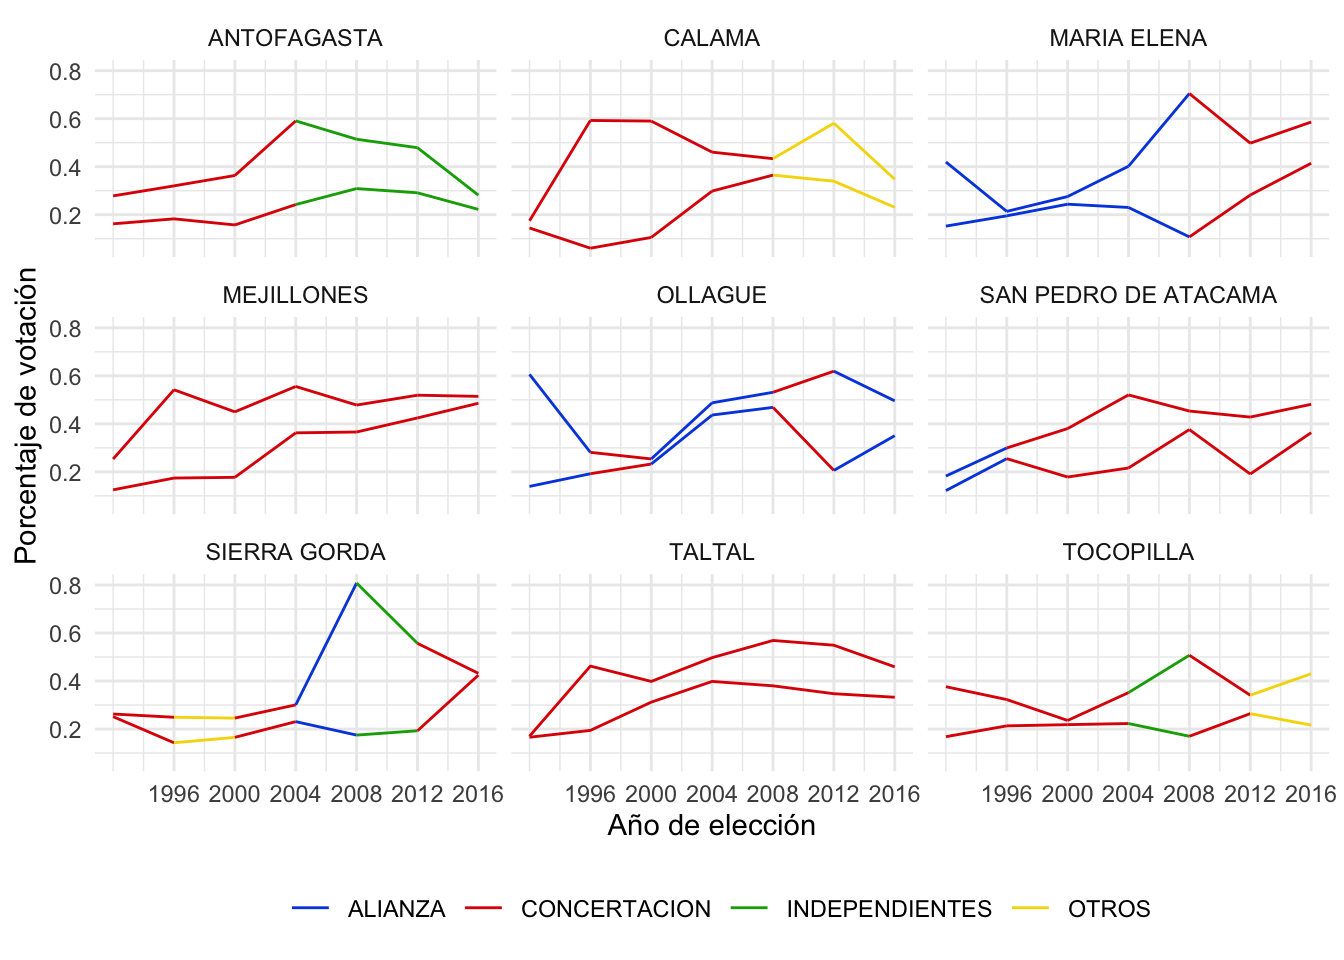
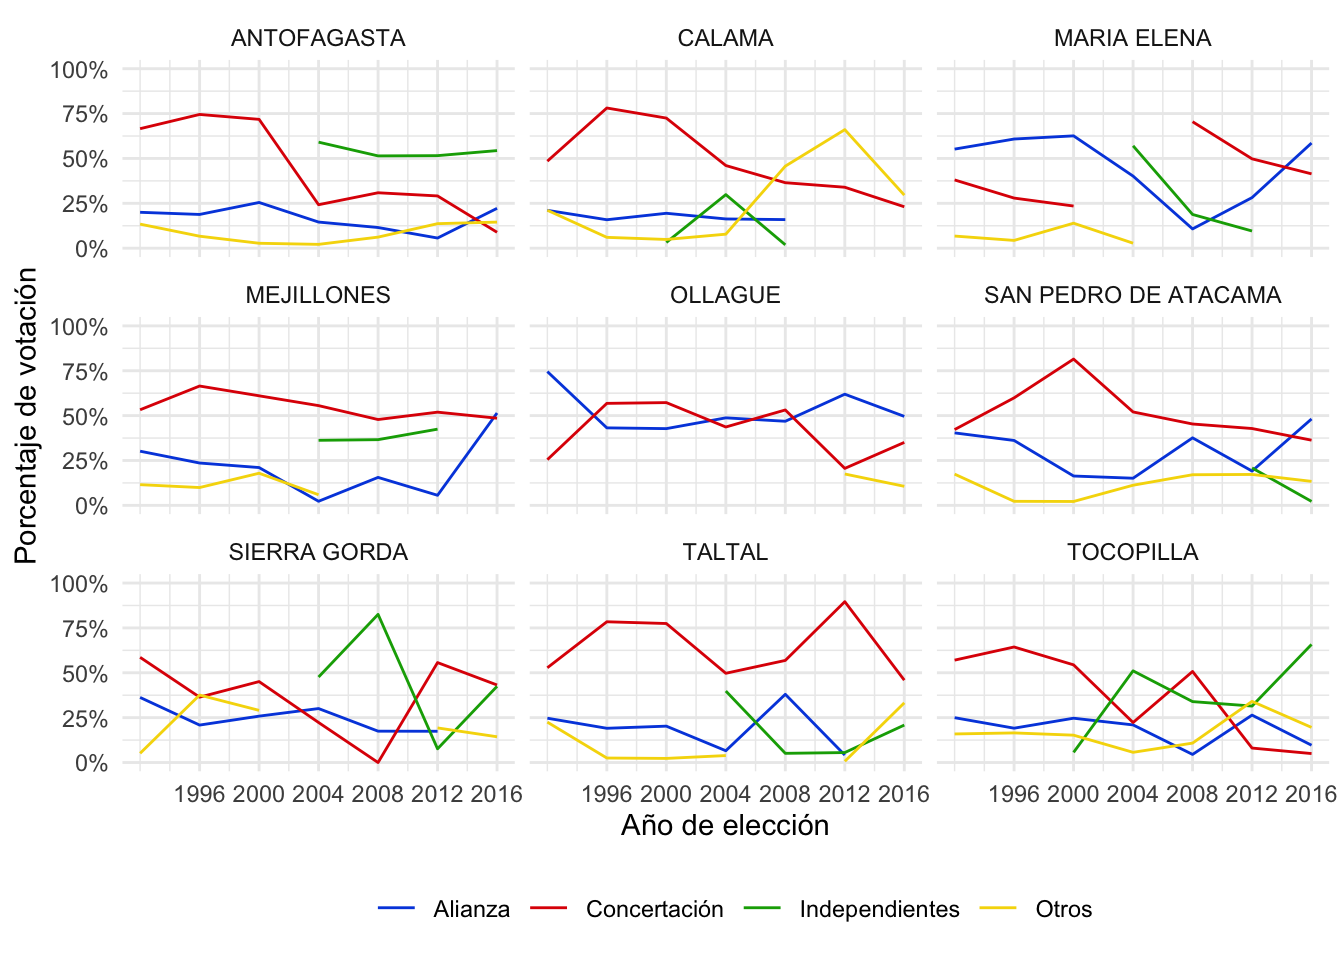
primer posts

diff --git a/content/post/2020-10-04-cosas-sobre-el-norte-de-chile.html b/content/post/2020-10-04-cosas-sobre-el-norte-de-chile.html
@@ -17,4 +17,21 @@ editor_options:
 <p>Usando R Markdown para ver qué tan roja ha sido la segunda región desde las elecciones de 1992, primer año en el que se realizaron elecciones locales después del regreso a la democracia. Durante <em>tres</em> periodos electorales los alcaldes iban a elecciones en conjunto con los concejales, el concejal con más del… 40% o 50% de los votos, no lo recuerdo en este momento, era electo alcalde. En el caso de que ningún concejal sacara ese porcentaje, los concejales electos decidían. Durante esos periosos de vió, además, cómo la Concertación y la Alianza se repartían las municipalidades dividiendo el periodo en 2 años. Uno para la Concerta y otro para la Alianza.</p>
 <p>Cargué la base de datos y los paquetes que usaré, <code>tidyverse</code> para las compañeras.</p>
 <p>Haré un simple <code>ggplot</code> para que veamos qué onda la segunda región:</p>
+<pre><code>## Warning: Removed 3 row(s) containing missing values (geom_path).</code></pre>
 <p><img src="/post/2020-10-04-cosas-sobre-el-norte-de-chile_files/figure-html/unnamed-chunk-3-1.png" width="672" /></p>
+<p>Ahora, podríamos evaluar uno a uno el desempeño de las coaliciones. Para eso, nos olvidaremos de las demás por un segundo. Cosa de distinguir de mejor manera cómo le fue a, por ejemplo, la Concertación/Nueva Mayoría en la segunda región, destacaremos sólo coalición. Para eso usaremos <code>gghighlight</code></p>
+<pre class="r"><code>plot_a +
+  gghighlight(coalicion == &quot;Concertación&quot;, calculate_per_facet = T, use_direct_label = FALSE)</code></pre>
+<p><img src="/post/2020-10-04-cosas-sobre-el-norte-de-chile_files/figure-html/unnamed-chunk-4-1.png" width="672" /></p>
+<p>También, podríamos poner el % de la persona que ganó las elecciones si y sólo si la persona es de la Concertación.</p>
+<pre class="r"><code>plot_a +
+  geom_text(data = data[data$coalicion==&#39;Concertación&#39;,], aes(label = round(value, digits = 2)), vjust = -1) + 
+  gghighlight(coalicion == &quot;Concertación&quot;, calculate_per_facet = T, use_direct_label = FALSE)</code></pre>
+<p><img src="/post/2020-10-04-cosas-sobre-el-norte-de-chile_files/figure-html/unnamed-chunk-5-1.png" width="672" /></p>
+<p>¿Por qué la coalición Concertación sacó tantos votos el 2012 en Taltal?</p>
+<p>Fui a la página del <a href="https://historico.servel.cl/servel/app/index.php?r=EleccionesGenerico&amp;id=8">SERVEL</a> para ver los resultados históricos. Seleccioné las elecciones municipales del 2012 en Taltal:</p>
+<div class="figure">
+<img src="/post/2020-10-04-cosas-sobre-el-norte-de-chile_files/historico_servel.png" alt="elecciones" style="width:80.0%" />
+<p class="caption">elecciones</p>
+</div>
+<p>Los dos candidatos a alcaldes pertenecían a la misma coalición. Una estrategia bastante estúpida, pero el candidato desafiante,Sergio Orellana Montejo, quería destituir al hasta ese momento incumbente histórico de Taltal, Guillermo Hidalgo Ocampo. Y, digámoslo, la UDI nunca ha sido realmente una opción en la comuna. Excepto en el 2008, pero esa historia es para otro momento.</p>
